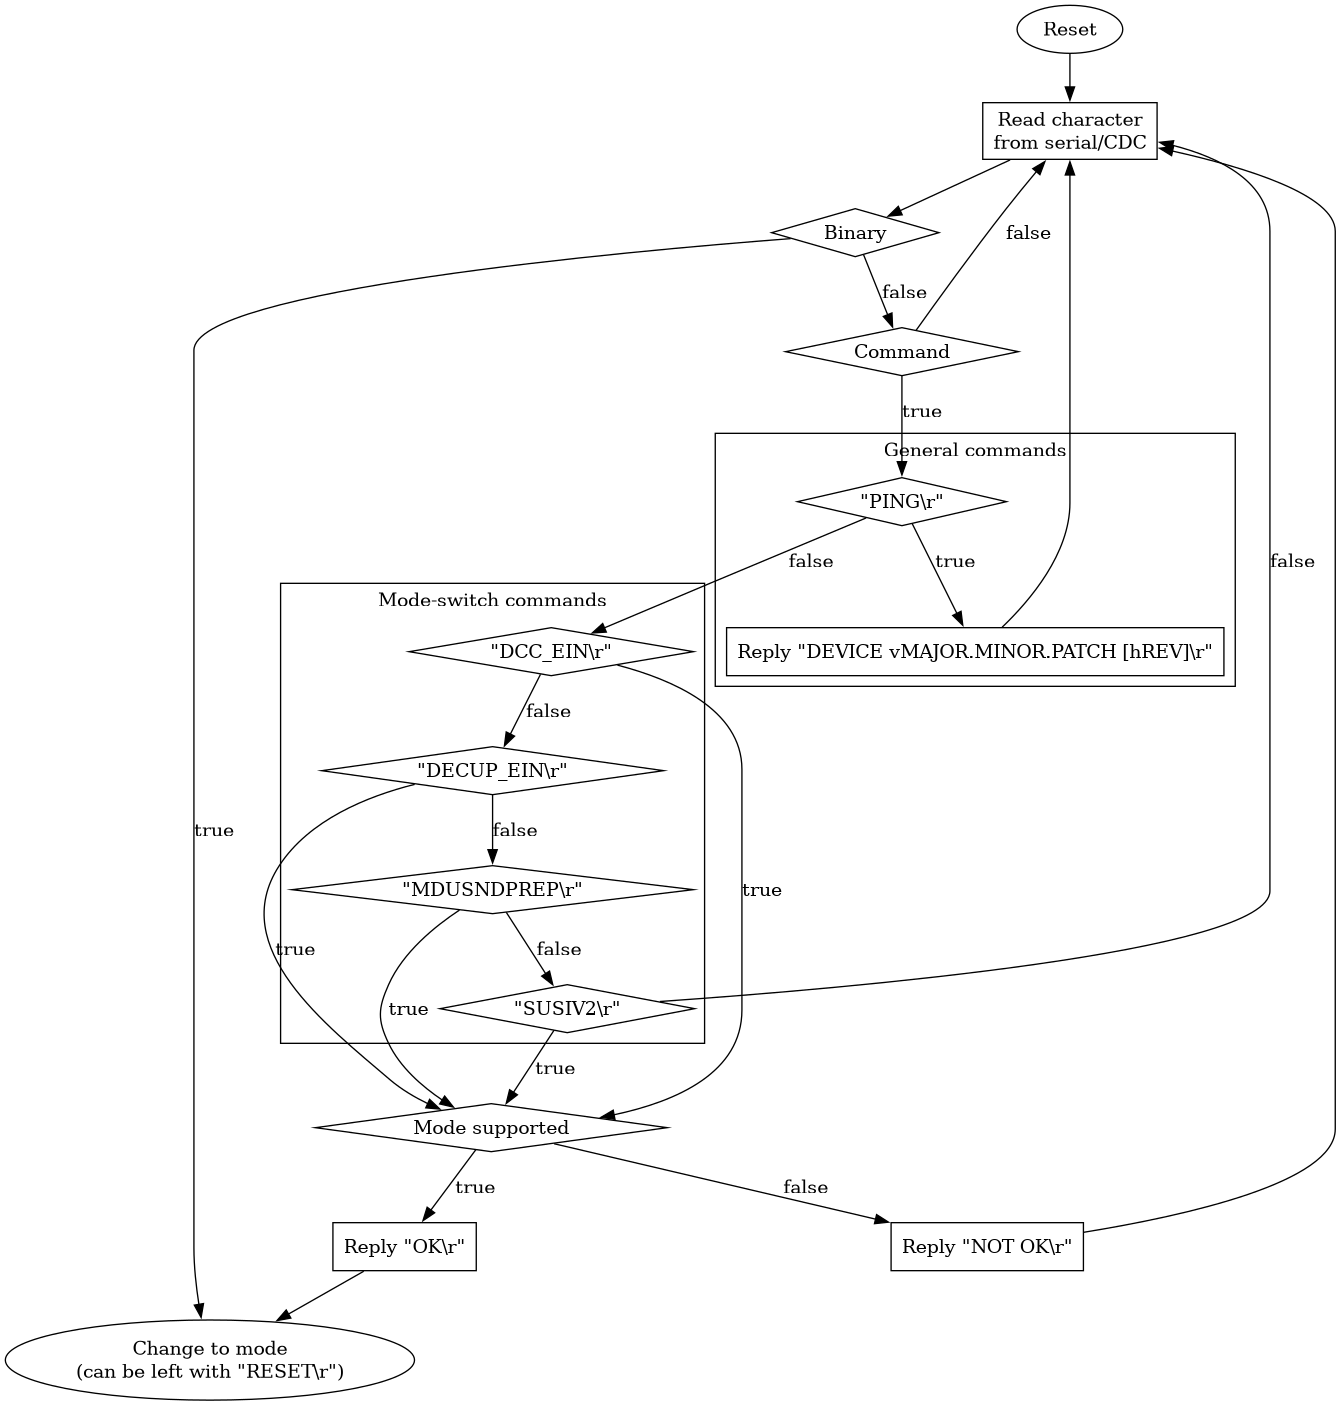
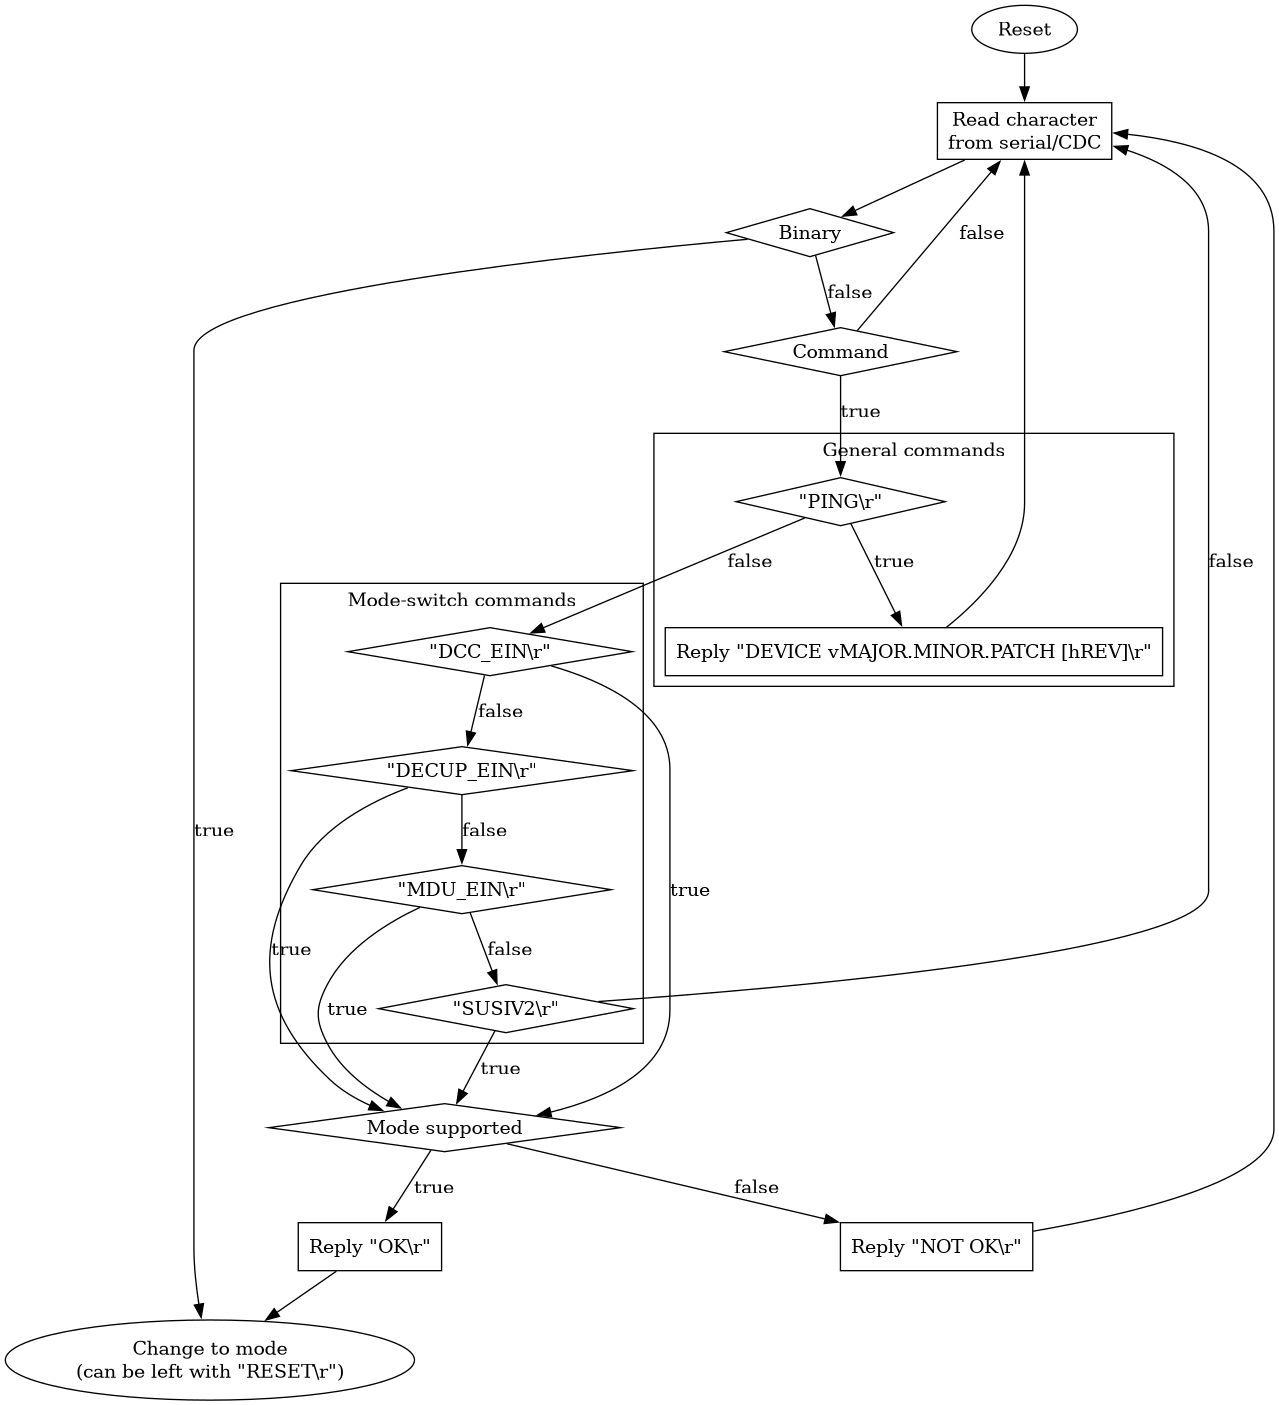
Implement str2command

diff --git a/tests/rx/str2mx1bin.cpp b/tests/rx/str2mx1bin.cpp
@@ -1,0 +1,66 @@
+#include <gtest/gtest.h>
+#include <ulfcom/ulfcom.hpp>
+
+TEST(str2mx1bin, empty_string) { EXPECT_TRUE(ulfcom::rx::str2mx1bin("")); }
+
+TEST(str2mx1bin, wrong_string) {
+  auto b{ulfcom::rx::str2mx1bin("123")};
+  EXPECT_FALSE(b);
+  EXPECT_EQ(b, std::unexpected(std::errc::bad_message));
+}
+
+TEST(str2mx1bin, not_enough_characters) {
+  {
+    auto b{ulfcom::rx::str2mx1bin("\x01")};
+    EXPECT_TRUE(b);
+    EXPECT_FALSE(*b);
+  }
+  {
+    auto b{ulfcom::rx::str2mx1bin("\x01\x01")};
+    EXPECT_TRUE(b);
+    EXPECT_FALSE(*b);
+  }
+  {
+    auto b{ulfcom::rx::str2mx1bin("\x01\x01somethingelse")};
+    EXPECT_TRUE(b);
+    EXPECT_FALSE(*b);
+  }
+}
+
+TEST(str2mx1bin, complete_string) {
+  {
+    auto b{ulfcom::rx::str2mx1bin("\x01\x01"
+                                  "data\x17")};
+    EXPECT_TRUE(b);
+    EXPECT_TRUE(*b);
+    EXPECT_EQ(size(b->value()), 7uz);
+  }
+  {
+    auto b{ulfcom::rx::str2mx1bin("\x01\x01"
+                                  "data\x17"
+                                  "someextradata")};
+    EXPECT_TRUE(b);
+    EXPECT_TRUE(*b);
+    EXPECT_EQ(size(b->value()), 7uz);
+  }
+}
+
+TEST(str2mx1bin, complete_string_with_escaped_characters) {
+  {
+    auto b{ulfcom::rx::str2mx1bin("\x01\x01"
+                                  "\x10\x17"
+                                  "data\x17")};
+    EXPECT_TRUE(b);
+    EXPECT_TRUE(*b);
+    EXPECT_EQ(size(b->value()), 9uz);
+  }
+  {
+    auto b{ulfcom::rx::str2mx1bin("\x01\x01"
+                                  "\x10\x17"
+                                  "data\x17"
+                                  "someextradata")};
+    EXPECT_TRUE(b);
+    EXPECT_TRUE(*b);
+    EXPECT_EQ(size(b->value()), 9uz);
+  }
+}

diff --git a/include/ulfcom/rx/str2mx1bin.hpp b/include/ulfcom/rx/str2mx1bin.hpp
@@ -1,0 +1,44 @@
+// This Source Code Form is subject to the terms of the Mozilla Public
+// License, v. 2.0. If a copy of the MPL was not distributed with this
+// file, You can obtain one at https://mozilla.org/MPL/2.0/.
+
+/// Convert string to MX1 binary
+///
+/// \file   ulfcom/rx/str2mx1bin.hpp
+/// \author Vincent Hamp
+/// \date   15/11/2023
+
+#include <expected>
+#include <optional>
+#include <string_view>
+#include <system_error>
+
+namespace ulfcom::rx {
+
+/// Convert string to MX1 binary
+///
+/// String should have the pattern "\x01\x01.+?(?<!\x10)\x17". If the
+/// string contains multiple MX1 binary frames only the first one is returned.
+///
+/// \param  str                     String
+/// \return std::string_view        View of the received MX1 binary
+/// \return std::nullopt            Not enough characters
+/// \return std::errc::bad_message  Invalid MX1 binary
+constexpr std::expected<std::optional<std::string_view>, std::errc>
+str2mx1bin(std::string_view str) {
+  auto const count{size(str)};
+  // Can't be MX1 binary yet
+  if (!count) return std::nullopt;
+  // Not start of heading (SOH)
+  else if ((count >= 1uz && str[0uz] != '\x01') ||
+           (count >= 2uz && str[1uz] != '\x01'))
+    return std::unexpected(std::errc::bad_message);
+  // Look for end of transmission block (ETB)
+  for (auto i{2uz}; i < count; ++i)
+    if (str[i - 1uz] != '\x10' && str[i] == '\x17')
+      return str.substr(0uz, i + 1uz);
+  // Not enough characters
+  return std::nullopt;
+}
+
+}  // namespace ulfcom::rx

diff --git a/include/ulfcom/rx/str2cmd.hpp b/include/ulfcom/rx/str2cmd.hpp
@@ -1,0 +1,40 @@
+// This Source Code Form is subject to the terms of the Mozilla Public
+// License, v. 2.0. If a copy of the MPL was not distributed with this
+// file, You can obtain one at https://mozilla.org/MPL/2.0/.
+
+/// Convert string to command
+///
+/// \file   ulfcom/rx/str2cmd.hpp
+/// \author Vincent Hamp
+/// \date   15/11/2023
+
+#include <expected>
+#include <optional>
+#include <string_view>
+#include <system_error>
+#include "../commands.hpp"
+
+namespace ulfcom::rx {
+
+/// Convert string to command
+///
+/// String must be any of the ones in the commands array.
+///
+/// \param  str                     String
+/// \return std::string_view        View of the received command
+/// \return std::nullopt            Not enough characters
+/// \return std::errc::bad_message  Invalid command
+constexpr std::expected<std::optional<std::string_view>, std::errc>
+str2cmd(std::string_view str) {
+  auto const it{std::ranges::find_if(commands, [&str](std::string_view cmd) {
+    return size(cmd) >= size(str) ? cmd.starts_with(str) : str.starts_with(cmd);
+  })};
+  // Command not found
+  if (it == cend(commands)) return std::unexpected(std::errc::bad_message);
+  // Command found (and complete)
+  else if (size(str) >= size(*it)) return *it;
+  // Not enough characters
+  return std::nullopt;
+}
+
+}  // namespace ulfcom::rx

diff --git a/tests/rx/str2cmd.cpp b/tests/rx/str2cmd.cpp
@@ -1,0 +1,49 @@
+#include <gtest/gtest.h>
+#include <ulfcom/ulfcom.hpp>
+
+TEST(str2cmd, empty_string) { EXPECT_TRUE(ulfcom::rx::str2cmd("")); }
+
+TEST(str2cmd, wrong_string) {
+  auto b{ulfcom::rx::str2cmd("123")};
+  EXPECT_FALSE(b);
+  EXPECT_EQ(b, std::unexpected(std::errc::bad_message));
+}
+
+TEST(str2cmd, not_enough_characters) {
+  {
+    auto b{ulfcom::rx::str2cmd("P")};
+    EXPECT_TRUE(b);
+    EXPECT_FALSE(*b);
+  }
+  {
+    auto b{ulfcom::rx::str2cmd("DCC_")};
+    EXPECT_TRUE(b);
+    EXPECT_FALSE(*b);
+  }
+  {
+    auto b{ulfcom::rx::str2cmd("SUSIV")};
+    EXPECT_TRUE(b);
+    EXPECT_FALSE(*b);
+  }
+}
+
+TEST(str2cmd, complete_string) {
+  {
+    auto b{ulfcom::rx::str2cmd("PING\r")};
+    EXPECT_TRUE(b);
+    EXPECT_TRUE(*b);
+    EXPECT_EQ(b->value(), "PING\r");
+  }
+  {
+    auto b{ulfcom::rx::str2cmd("MDU_EIN\r")};
+    EXPECT_TRUE(b);
+    EXPECT_TRUE(*b);
+    EXPECT_EQ(b->value(), "MDU_EIN\r");
+  }
+  {
+    auto b{ulfcom::rx::str2cmd("MDU_EIN\rsomemore")};
+    EXPECT_TRUE(b);
+    EXPECT_TRUE(*b);
+    EXPECT_EQ(b->value(), "MDU_EIN\r");
+  }
+}

diff --git a/include/ulfcom/tx/ping.hpp b/include/ulfcom/tx/ping.hpp
@@ -1,3 +1,29 @@
 // This Source Code Form is subject to the terms of the Mozilla Public
 // License, v. 2.0. If a copy of the MPL was not distributed with this
 // file, You can obtain one at https://mozilla.org/MPL/2.0/.
+
+/// Reply to "PING\r" command
+///
+/// \file   ulfcom/tx/ping.hpp
+/// \author Vincent Hamp
+/// \date   15/11/2023
+
+#include <string_view>
+
+namespace ulfcom::tx {
+
+// inplace_vector...?
+inline std::array<char,
+                  ULFCOM_MAX_DEVICE_NAME_LEN +  // Device name
+                    sizeof(' ') +               // Space
+                    sizeof('v') +               // Version identifier
+                    ULFCOM_MAX_VERSION_LEN +    // Version
+                    sizeof(' ') +               // Space
+                    sizeof('h') +               // Revision identifier
+                    sizeof(char) +              // Revision
+                    sizeof('\r')>               // Carriage return
+ping(char const* device_name, char const* version, char revision) {
+  return {};
+}
+
+}  // namespace ulfcom::tx

diff --git a/include/ulfcom/commands.hpp b/include/ulfcom/commands.hpp
@@ -2,7 +2,7 @@
 // License, v. 2.0. If a copy of the MPL was not distributed with this
 // file, You can obtain one at https://mozilla.org/MPL/2.0/.
 
-/// ULFCom
+/// Commands
 ///
 /// \file   ulfcom/commands.hpp
 /// \author Vincent Hamp
@@ -15,15 +15,15 @@ namespace ulfcom {
 
 using namespace std::literals;
 
-/// Array of commands
-constexpr std::array commands{
+/// Commands
+inline constexpr std::array commands{
   // General
   "PING\r"sv,
 
-  // Protocols
+  // Protocols (mode changes)
   "DCC_EIN\r"sv,
   "DECUP_EIN\r"sv,
-  "MDUSNDPREP\r"sv,
+  "MDU_EIN\r"sv,
   "SUSIV2\r"sv,
 };
 

diff --git a/include/ulfcom/tx/not_ok.hpp b/include/ulfcom/tx/not_ok.hpp
@@ -1,3 +1,18 @@
 // This Source Code Form is subject to the terms of the Mozilla Public
 // License, v. 2.0. If a copy of the MPL was not distributed with this
 // file, You can obtain one at https://mozilla.org/MPL/2.0/.
+
+/// "NOT OK\r" constant
+///
+/// \file   ulfcom/tx/not_ok.hpp
+/// \author Vincent Hamp
+/// \date   15/11/2023
+
+#include <string_view>
+
+namespace ulfcom::tx {
+
+/// Reply to received commands on failure
+inline constexpr std::string_view not_ok{"NOT OK\r"};
+
+}  // namespace ulfcom::tx

diff --git a/include/ulfcom/tx/ok.hpp b/include/ulfcom/tx/ok.hpp
@@ -1,3 +1,18 @@
 // This Source Code Form is subject to the terms of the Mozilla Public
 // License, v. 2.0. If a copy of the MPL was not distributed with this
 // file, You can obtain one at https://mozilla.org/MPL/2.0/.
+
+/// "OK\r" constant
+///
+/// \file   ulfcom/tx/ok.hpp
+/// \author Vincent Hamp
+/// \date   15/11/2023
+
+#include <string_view>
+
+namespace ulfcom::tx {
+
+/// Reply to received commands on success
+inline constexpr std::string_view ok{"OK\r"};
+
+}  // namespace ulfcom::tx

diff --git a/include/ulfcom/ulfcom.hpp b/include/ulfcom/ulfcom.hpp
@@ -8,8 +8,8 @@
 /// \author Vincent Hamp
 /// \date   15/11/2023
 
-#include "rx/str2binary.hpp"
-#include "rx/str2command.hpp"
+#include "rx/str2cmd.hpp"
+#include "rx/str2mx1bin.hpp"
 #include "tx/not_ok.hpp"
 #include "tx/ok.hpp"
 #include "tx/ping.hpp"

diff --git a/tests/tx/ping.cpp b/tests/tx/ping.cpp
@@ -1,0 +1,4 @@
+#include <gtest/gtest.h>
+#include <ulfcom/ulfcom.hpp>
+
+TEST(ping, xxx) { auto bla = ulfcom::tx::ping(nullptr, nullptr, ' '); }
